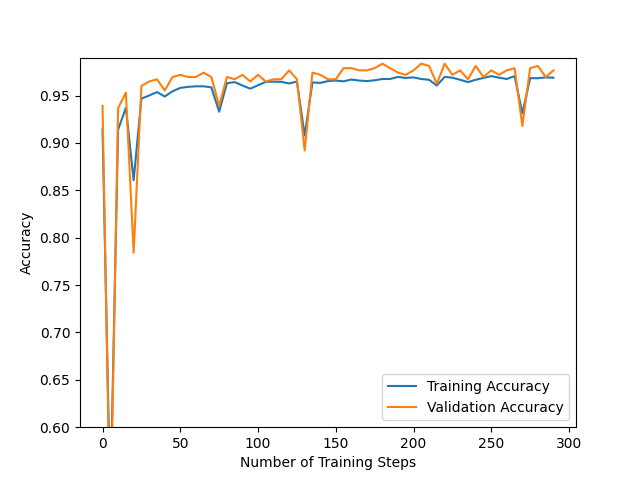
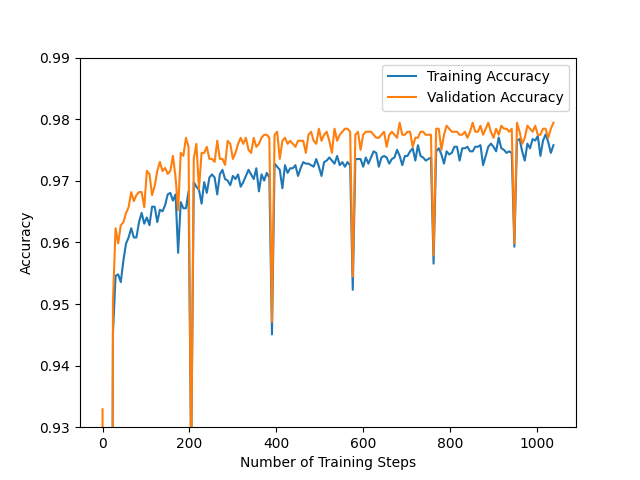
3 done

diff --git a/assignment1/task2.py b/assignment1/task2.py
@@ -18,8 +18,8 @@ def calculate_accuracy(X: np.ndarray, targets: np.ndarray, model: BinaryModel) -
     # TODO Implement this function (Task 2c)
     accuracy = 0.0
     total = X.shape[0]
-    a = model.forward(X)
-    positives = a >= 0.5
+    res = model.forward(X)
+    positives = res >= 0.5
     num_correct = (targets.squeeze() == positives.squeeze()).sum()
     accuracy = num_correct / total
     return accuracy
@@ -72,7 +72,7 @@ class LogisticTrainer(BaseTrainer):
 
 def main():
     # hyperparameters DO NOT CHANGE IF NOT SPECIFIED IN ASSIGNMENT TEXT
-    num_epochs = 50
+    num_epochs = 500
     learning_rate = 0.05
     batch_size = 128
     shuffle_dataset = False
@@ -106,25 +106,25 @@ def main():
     print("Validation accuracy:", calculate_accuracy(X_val, Y_val, model))
 
     # Plot loss for first model (task 2b)
-    # plt.ylim([0., .2])
-    # utils.plot_loss(train_history["loss"],
-    #                 "Training Loss", npoints_to_average=10)
-    # utils.plot_loss(val_history["loss"], "Validation Loss")
-    # plt.legend()
-    # plt.xlabel("Number of Training Steps")
-    # plt.ylabel("Cross Entropy Loss - Average")
-    # plt.savefig("task2b_binary_train_loss.png")
-    # plt.show()
+    plt.ylim([0., .2])
+    utils.plot_loss(train_history["loss"],
+                    "Training Loss", npoints_to_average=10)
+    utils.plot_loss(val_history["loss"], "Validation Loss")
+    plt.legend()
+    plt.xlabel("Number of Training Steps")
+    plt.ylabel("Cross Entropy Loss - Average")
+    plt.savefig("task2b_binary_train_loss.png")
+    plt.show()
 
-    # # Plot accuracy
-    # plt.ylim([0.93, .99])
-    # utils.plot_loss(train_history["accuracy"], "Training Accuracy")
-    # utils.plot_loss(val_history["accuracy"], "Validation Accuracy")
-    # plt.xlabel("Number of Training Steps")
-    # plt.ylabel("Accuracy")
-    # plt.legend()
-    # plt.savefig("task2b_binary_train_accuracy.png")
-    # plt.show()
+    # Plot accuracy
+    plt.ylim([0.93, .99])
+    utils.plot_loss(train_history["accuracy"], "Training Accuracy")
+    utils.plot_loss(val_history["accuracy"], "Validation Accuracy")
+    plt.xlabel("Number of Training Steps")
+    plt.ylabel("Accuracy")
+    plt.legend()
+    plt.savefig("task2b_binary_train_accuracy.png")
+    plt.show()
 
     # Task 2e - Create a comparison between training with and without shuffling
     shuffle_dataset = True
@@ -137,26 +137,26 @@ def main():
     )
     train_history_shuffle, val_history_shuffle = trainer.train(num_epochs)
 
-    # plt.ylim([0., .2])
-    # utils.plot_loss(train_history["loss"],
-    #                 "Training Loss", npoints_to_average=10)
-    # utils.plot_loss(
-    #     train_history_shuffle["loss"], "Training Loss with shuffle", npoints_to_average=10)
-    # plt.legend()
-    # plt.xlabel("Number of Training Steps")
-    # plt.ylabel("Cross Entropy Loss - Average")
-    # plt.savefig("task2e_train_loss_with_shuffle.png")
-    # plt.show()
+    plt.ylim([0., .2])
+    utils.plot_loss(train_history["loss"],
+                    "Training Loss", npoints_to_average=10)
+    utils.plot_loss(
+        train_history_shuffle["loss"], "Training Loss with shuffle", npoints_to_average=10)
+    plt.legend()
+    plt.xlabel("Number of Training Steps")
+    plt.ylabel("Cross Entropy Loss - Average")
+    plt.savefig("task2e_train_loss_with_shuffle.png")
+    plt.show()
 
-    # plt.ylim([0.93, .99])
-    # utils.plot_loss(val_history["accuracy"], "Validation Accuracy")
-    # utils.plot_loss(
-    #     val_history_shuffle["accuracy"], "Validation Accuracy with shuffle")
-    # plt.xlabel("Number of Training Steps")
-    # plt.ylabel("Accuracy")
-    # plt.legend()
-    # plt.savefig("task2e_train_accuracy_shuffle_difference.png")
-    # plt.show()
+    plt.ylim([0.93, .99])
+    utils.plot_loss(val_history["accuracy"], "Validation Accuracy")
+    utils.plot_loss(
+        val_history_shuffle["accuracy"], "Validation Accuracy with shuffle")
+    plt.xlabel("Number of Training Steps")
+    plt.ylabel("Accuracy")
+    plt.legend()
+    plt.savefig("task2e_train_accuracy_shuffle_difference.png")
+    plt.show()
 
 
 if __name__ == "__main__":

diff --git a/assignment1/task3a.py b/assignment1/task3a.py
@@ -15,17 +15,20 @@ def cross_entropy_loss(targets: np.ndarray, outputs: np.ndarray):
     # TODO implement this function (Task 3a)
     assert targets.shape == outputs.shape,\
         f"Targets shape: {targets.shape}, outputs: {outputs.shape}"
-    raise NotImplementedError
+    N = targets.shape[0]
+    C_n = targets * np.log(outputs)
+    loss = -1/N * np.sum(C_n)
+    return loss
 
 
 class SoftmaxModel:
 
     def __init__(self, l2_reg_lambda: float):
         # Define number of input nodes
-        self.I = None
+        self.I = 785
 
         # Define number of output nodes
-        self.num_outputs = None
+        self.num_outputs = 10
         self.w = np.zeros((self.I, self.num_outputs))
         self.grad = None
 
@@ -38,8 +41,9 @@ class SoftmaxModel:
         Returns:
             y: output of model with shape [batch size, num_outputs]
         """
-        # TODO implement this function (Task 3a)
-        return None
+        z = np.einsum('ij,jk->ik', X, self.w)
+        a = np.exp(z)/np.sum(np.exp(z), axis=1, keepdims=True)
+        return a
 
     def backward(self, X: np.ndarray, outputs: np.ndarray, targets: np.ndarray) -> None:
         """
@@ -59,6 +63,9 @@ class SoftmaxModel:
         assert self.grad.shape == self.w.shape,\
             f"Grad shape: {self.grad.shape}, w: {self.w.shape}"
 
+        batch_size = X.shape[0]
+        self.grad = -np.einsum('ij,ik->jk', X, targets - outputs) / batch_size
+
     def zero_grad(self) -> None:
         self.grad = None
 
@@ -72,7 +79,7 @@ def one_hot_encode(Y: np.ndarray, num_classes: int):
         Y: shape [Num examples, num classes]
     """
     # TODO implement this function (Task 3a)
-    raise NotImplementedError
+    return np.eye(num_classes)[Y][:, 0, :]
 
 
 def gradient_approximation_test(model: SoftmaxModel, X: np.ndarray, Y: np.ndarray):
@@ -111,6 +118,7 @@ def main():
     # Simple test on one-hot encoding
     Y = np.zeros((1, 1), dtype=int)
     Y[0, 0] = 3
+    print(Y[0, 0])
     Y = one_hot_encode(Y, 10)
     assert Y[0, 3] == 1 and Y.sum() == 1, \
         f"Expected the vector to be [0,0,0,1,0,0,0,0,0,0], but got {Y}"

diff --git a/assignment1/trainer.py b/assignment1/trainer.py
@@ -71,7 +71,9 @@ class BaseTrainer:
             loss={},
             accuracy={}
         )
-
+        best_val_loss = float('inf')
+        early_stopping_counter = 0
+        max_early_stopping = 10
         global_step = 0
         for epoch in range(num_epochs):
             train_loader = utils.batch_loader(
@@ -90,10 +92,16 @@ class BaseTrainer:
 
                     # TODO (Task 2d): Implement early stopping here.
                     # You can access the validation loss in val_history["loss"]
-                    val_loss = np.array(list(val_history["loss"].values())[-10:])
-                    if len(val_loss) >= 10 and val_loss.min() < val_loss[-1]:
-                        print(f"Early stopping at epochss: {epoch}")
+
+                    val_loss = list(val_history["loss"].values())[-1:][0] # get the last loss value
+                    if val_loss < best_val_loss:                          # best_val_loss is initialized to inf
+                        best_val_loss = val_loss
+                        early_stopping_counter = 0
+                    else:
+                        early_stopping_counter += 1
+                    
+                    if early_stopping_counter >= max_early_stopping:      # if the loss is not decreasing for 10 checks
+                        print(f"Early stopping at epoch: {epoch}")
                         return train_history, val_history
-                    #print(val_loss)
                 global_step += 1
         return train_history, val_history

diff --git a/assignment1/task3.py b/assignment1/task3.py
@@ -18,6 +18,12 @@ def calculate_accuracy(X: np.ndarray, targets: np.ndarray, model: SoftmaxModel) 
     """
     # TODO: Implement this function (task 3c)
     accuracy = 0
+    total = X.shape[0]
+    res = model.forward(X)
+    res = np.argmax(res, axis=1)
+    targets = np.argmax(targets, axis=1)
+    num_correct = (targets.squeeze() == res.squeeze()).sum()
+    accuracy = num_correct / total
     return accuracy
 
 
@@ -37,6 +43,11 @@ class SoftmaxTrainer(BaseTrainer):
         """
         # TODO: Implement this function (task 3b)
         loss = 0
+        a = self.model.forward(X_batch)
+        self.model.backward(X_batch, a, Y_batch)
+        self.model.w = self.model.w - self.model.grad * self.learning_rate # gradient descent
+        self.model.zero_grad() # reset gradient
+        loss = cross_entropy_loss(Y_batch, a)
         return loss
 
     def validation_step(self):

diff --git a/assignment1/utils.py b/assignment1/utils.py
@@ -25,6 +25,8 @@ def batch_loader(
     indices = list(range(len(X)))
 
     # TODO (task 2e) implement dataset shuffling here.
+    if shuffle:
+        np.random.shuffle(indices)
 
     for i in range(num_batches):
         # select a set of indices for each batch of samples
